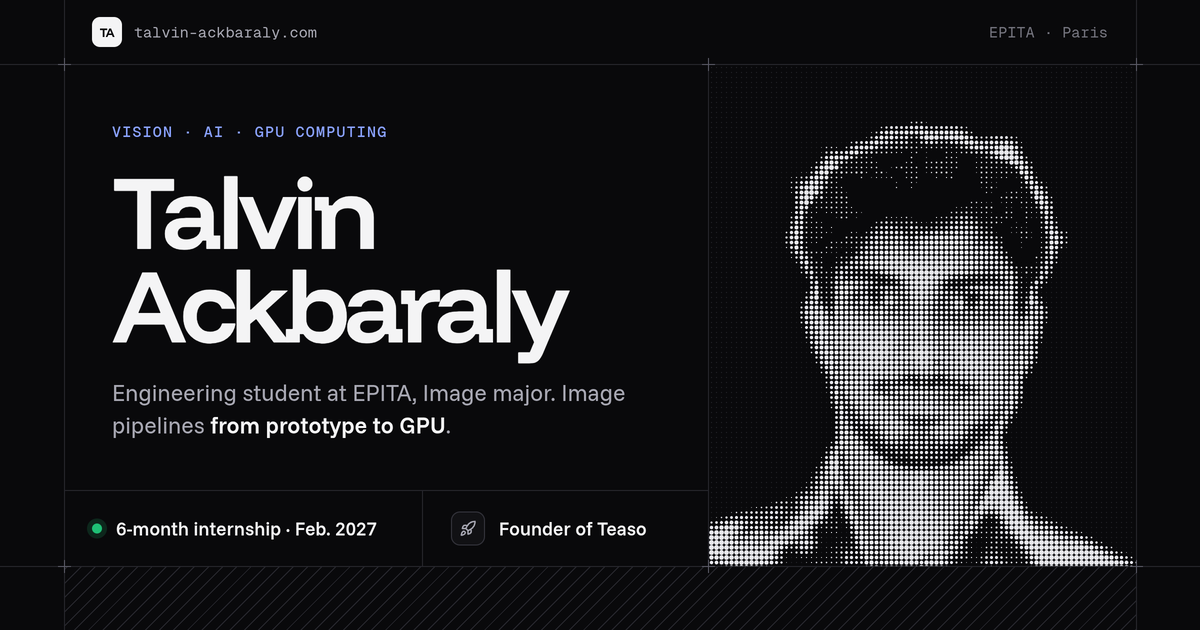
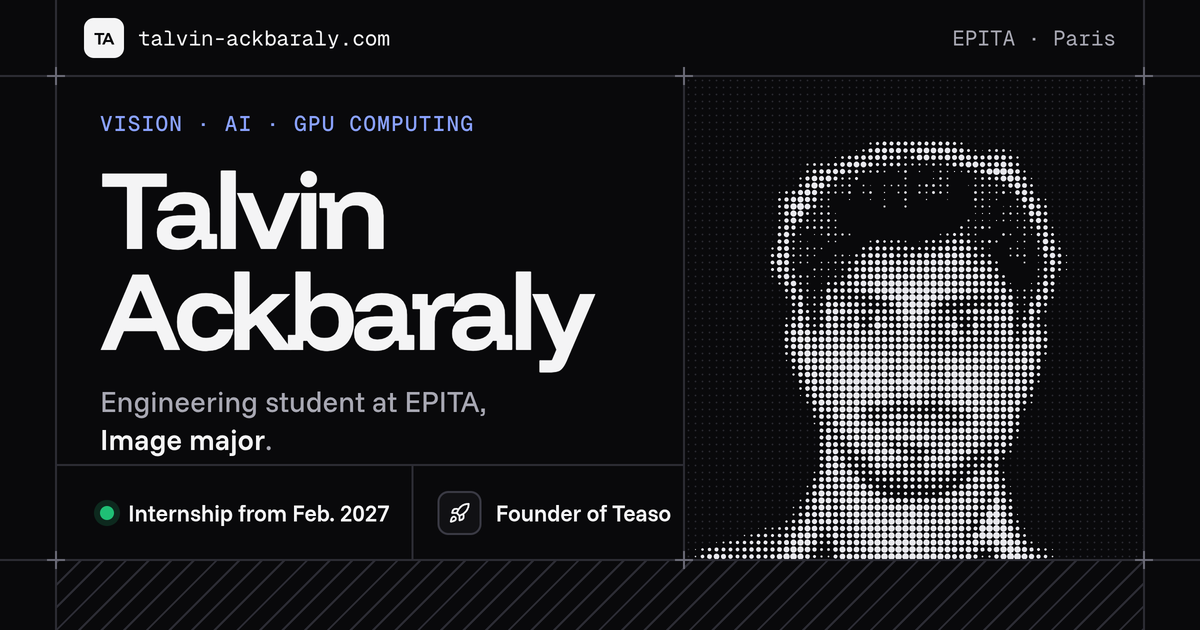
fix(seo): share images that hold up in LinkedIn's small preview (#70)
LinkedIn shows the share image at about 40 % and re-encodes it as JPEG:
the 5 px dot screen of the portrait turned into vertical moiré and the
small type blurred away.

- Portrait screen at a 7 px pitch, on a larger portrait
- Type from 20 px up (name 112 px), a one-sentence lede, the two cells
  on one line each
- Rules and crosses 2 px thick
- README: these limits, and how to check (520 px wide, JPEG quality 70)

diff --git a/scripts/og/og.html b/scripts/og/og.html
@@ -15,49 +15,51 @@
 
   :root {
     --bg: #09090b; --surface: #111114; --ink: #f4f4f5; --ink-2: #a8a8b3; --ink-3: #75757f;
-    --rule: #26262c; --cross: #5a5a66; --accent: #8aa2ff;
-    /* The plate: rails at x = 64 and 1136, rules at y = 64 and 566, and
-       the portrait column from x = 708. */
-    --l: 64px; --r: 1136px; --t: 64px; --b: 566px; --split: 708px;
+    --rule: #2c2c34; --cross: #6a6a76; --accent: #8aa2ff;
+    /* The plate: rails at x = 56 and 1144, rules at y = 76 and 560, and
+       the portrait column from x = 684. Everything is drawn to survive a
+       preview at about 40 % of this size: 2 px rules, large type, a coarse
+       screen. */
+    --l: 56px; --r: 1144px; --t: 76px; --b: 560px; --split: 684px;
   }
   * { margin: 0; padding: 0; box-sizing: border-box; }
   html, body { width: 1200px; height: 630px; overflow: hidden; background: var(--bg); color: var(--ink); }
 
   .line { position: absolute; background: var(--rule); }
-  .v { top: 0; bottom: 0; width: 1px; }
-  .h { left: 0; right: 0; height: 1px; }
-  .cross { position: absolute; width: 13px; height: 13px; transform: translate(-6px, -6px); }
+  .v { top: 0; bottom: 0; width: 2px; margin-left: -1px; }
+  .h { left: 0; right: 0; height: 2px; margin-top: -1px; }
+  .cross { position: absolute; width: 18px; height: 18px; transform: translate(-9px, -9px); }
   .cross::before, .cross::after { content: ""; position: absolute; background: var(--cross); }
-  .cross::before { left: 6px; top: 0; width: 1px; height: 13px; }
-  .cross::after { top: 6px; left: 0; height: 1px; width: 13px; }
+  .cross::before { left: 8px; top: 0; width: 2px; height: 18px; }
+  .cross::after { top: 8px; left: 0; height: 2px; width: 18px; }
 
   /* The hatched band under the plate, as between the site's sections. */
   .hatch { position: absolute; left: var(--l); right: calc(1200px - var(--r)); top: calc(var(--b) + 1px); bottom: 0;
-    background: repeating-linear-gradient(-45deg, var(--rule) 0 1px, transparent 1px 10px); }
+    background: repeating-linear-gradient(-45deg, var(--rule) 0 2px, transparent 2px 16px); }
 
   .top { position: absolute; left: calc(var(--l) + 28px); right: calc(1200px - var(--r) + 28px); top: 0; height: var(--t);
     display: flex; align-items: center; justify-content: space-between;
-    font-family: "Geist Mono"; font-size: 15px; color: var(--ink-3); letter-spacing: .01em; }
-  .brand { display: flex; align-items: center; gap: 12px; color: var(--ink-2); }
-  .mark { display: grid; place-items: center; width: 30px; height: 30px; border-radius: 8px; background: var(--ink); color: var(--bg);
-    font-family: "Funnel Display"; font-weight: 700; font-size: 12.5px; letter-spacing: -.03em; }
+    font-family: "Geist Mono"; font-size: 21px; color: var(--ink-2); letter-spacing: 0; }
+  .brand { display: flex; align-items: center; gap: 14px; color: var(--ink); }
+  .mark { display: grid; place-items: center; width: 40px; height: 40px; border-radius: 10px; background: var(--ink); color: var(--bg);
+    font-family: "Funnel Display"; font-weight: 700; font-size: 17px; letter-spacing: -.03em; }
 
-  .text { position: absolute; left: calc(var(--l) + 48px); width: calc(var(--split) - var(--l) - 88px); top: calc(var(--t) + 58px); }
-  .kicker { font-family: "Geist Mono"; font-size: 15px; font-weight: 500; letter-spacing: .08em; text-transform: uppercase; color: var(--accent); }
-  h1 { margin-top: 22px; font-family: "Funnel Display"; font-weight: 650; font-size: 104px; line-height: .9; letter-spacing: -.055em; }
-  .lede { margin-top: 26px; font-family: "Funnel Sans"; font-size: 23px; line-height: 1.4; color: var(--ink-2); max-width: 520px; }
+  .text { position: absolute; left: calc(var(--l) + 44px); width: calc(var(--split) - var(--l) - 72px); top: calc(var(--t) + 34px); }
+  .kicker { font-family: "Geist Mono"; font-size: 21px; font-weight: 500; letter-spacing: .06em; text-transform: uppercase; color: var(--accent); }
+  h1 { margin-top: 20px; font-family: "Funnel Display"; font-weight: 680; font-size: 112px; line-height: .9; letter-spacing: -.055em; }
+  .lede { margin-top: 24px; font-family: "Funnel Sans"; font-size: 29px; font-weight: 450; line-height: 1.3; color: var(--ink-2); }
   .lede b { font-weight: 600; color: var(--ink); }
 
   /* A ruled row of cells along the bottom rule of the plate. */
-  .cells { position: absolute; left: var(--l); width: calc(var(--split) - var(--l)); top: calc(var(--b) - 76px); height: 76px;
-    display: grid; grid-template-columns: 1.25fr 1fr; border-top: 1px solid var(--rule); }
-  .cell { display: flex; align-items: center; gap: 14px; padding: 0 28px; font-family: "Funnel Sans"; font-size: 19px; font-weight: 550; }
-  .cell + .cell { border-left: 1px solid var(--rule); }
-  .dot { width: 10px; height: 10px; border-radius: 50%; background: #1fbf75; box-shadow: 0 0 0 5px rgb(31 191 117 / .16); }
-  .icon { display: grid; place-items: center; width: 34px; height: 34px; border-radius: 9px; background: var(--surface); box-shadow: inset 0 0 0 1px #34343c; color: var(--ink-2); }
-  .icon svg { width: 17px; height: 17px; }
+  .cells { position: absolute; left: var(--l); width: calc(var(--split) - var(--l)); top: calc(var(--b) - 96px); height: 96px;
+    display: grid; grid-template-columns: auto 1fr; border-top: 2px solid var(--rule); }
+  .cell { display: flex; align-items: center; gap: 14px; padding: 0 22px 0 44px; font-family: "Funnel Sans"; font-size: 23px; font-weight: 600; letter-spacing: -.01em; white-space: nowrap; }
+  .cell + .cell { border-left: 2px solid var(--rule); padding-left: 24px; }
+  .dot { width: 14px; height: 14px; border-radius: 50%; background: #1fbf75; box-shadow: 0 0 0 6px rgb(31 191 117 / .18); }
+  .icon { display: grid; place-items: center; width: 44px; height: 44px; border-radius: 11px; background: var(--surface); box-shadow: inset 0 0 0 2px #3a3a44; color: var(--ink); }
+  .icon svg { width: 22px; height: 22px; }
 
-  canvas { position: absolute; left: calc(var(--split) + 1px); top: calc(var(--t) + 1px); width: calc(var(--r) - var(--split) - 1px); height: calc(var(--b) - var(--t) - 1px); }
+  canvas { position: absolute; left: calc(var(--split) + 1px); top: calc(var(--t) + 1px); width: calc(var(--r) - var(--split) - 2px); height: calc(var(--b) - var(--t) - 2px); }
 </style>
 </head>
 <body>
@@ -95,8 +97,8 @@
 <script>
 const L = new URLSearchParams(location.search).get("lang") || "fr";
 const copy = {
-  fr: { where: "EPITA · Paris", kicker: "Vision · IA · Calcul GPU", lede: "Élève ingénieur à l'EPITA, majeure Image. Des pipelines d'image <b>du prototype au GPU</b>.", status: "Stage de 6 mois · février 2027", teaso: "Fondateur de Teaso" },
-  en: { where: "EPITA · Paris", kicker: "Vision · AI · GPU computing", lede: "Engineering student at EPITA, Image major. Image pipelines <b>from prototype to GPU</b>.", status: "6-month internship · Feb. 2027", teaso: "Founder of Teaso" },
+  fr: { where: "EPITA · Paris", kicker: "Vision · IA · Calcul GPU", lede: "Élève ingénieur à l'EPITA,<br><b>majeure Image</b>.", status: "Stage dès février 2027", teaso: "Fondateur de Teaso" },
+  en: { where: "EPITA · Paris", kicker: "Vision · AI · GPU computing", lede: "Engineering student at EPITA,<br><b>Image major</b>.", status: "Internship from Feb. 2027", teaso: "Founder of Teaso" },
 }[L];
 document.documentElement.lang = L;
 for (const k of ["where", "kicker", "status", "teaso"]) document.getElementById(k).textContent = copy[k];
@@ -112,11 +114,11 @@ ctx.scale(dpr, dpr);
 const img = new Image();
 img.src = "photo-src.jpg";
 img.onload = () => {
-  const S = 5;                      // pitch of the screen, CSS px
+  const S = 7;                      // pitch of the screen, CSS px: coarse enough to survive a small preview
   const cols = Math.ceil(W / S), rows = Math.ceil(H / S);
 
   // The photo cropped to the column: head and shoulders.
-  const crop = { x: 0.14, y: 0.03, w: 0.72 };          // fractions of the photo
+  const crop = { x: 0.13, y: 0.025, w: 0.74 };         // fractions of the photo
   crop.h = crop.w * (H / W) * (img.width / img.height);
   const read = (w, h, blur) => {
     const c = document.createElement("canvas");
@@ -153,7 +155,7 @@ img.onload = () => {
     const t = Math.min(1, Math.max(0, (lum[i] - 0.06) / 0.62));
     const r = S * 0.5 * Math.sqrt(Math.pow(t, 0.85) * soft[i]);
     if (r > 0.35) { dots.moveTo(cx + r, cy); dots.arc(cx, cy, r, 0, Math.PI * 2); }
-    else if (soft[i] < 0.05) { faint.moveTo(cx + 0.55, cy); faint.arc(cx, cy, 0.55, 0, Math.PI * 2); }
+    else if (soft[i] < 0.05) { faint.moveTo(cx + 0.9, cy); faint.arc(cx, cy, 0.9, 0, Math.PI * 2); }
   }
   ctx.fillStyle = "#2a2a31"; ctx.fill(faint);
   ctx.fillStyle = "#e9e9ee"; ctx.fill(dots);

diff --git a/README.md b/README.md
@@ -356,7 +356,11 @@ Deux composants s'écrivent en HTML dans le Markdown, sans ligne vide
 - **Image Open Graph** : `assets/og-image.png` (FR) et `og-image-en.png`
   (EN), 1200×630. La planche du site (rails, filets, croix, bande
   hachurée) autour du nom ; à droite, le portrait en trame de points de
-  sa lumière, l'arrière-plan gris de la photo retiré. Source :
+  sa lumière, l'arrière-plan gris de la photo retiré. LinkedIn montre
+  l'aperçu à environ 40 % et le recompresse en JPEG : filets de 2 px,
+  textes de 20 px au moins et trame de 7 px, sans quoi les textes
+  s'effacent et la trame part en moiré. Pour juger, réduire à 520 px de
+  large en JPEG qualité 70. Source :
   `scripts/og/og.html` (textes en bas du fichier) et `photo-src.jpg`.
   Pour les refaire (rendu au double, puis réduit) :
 
